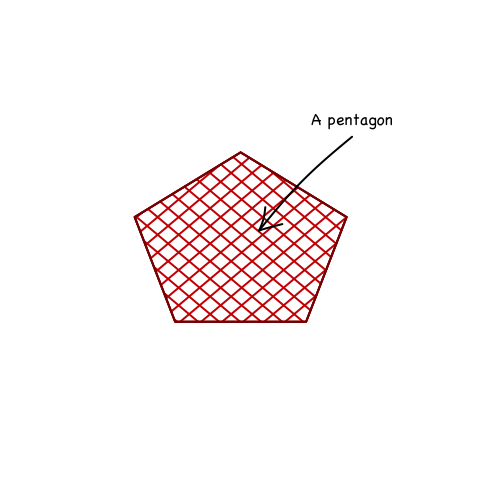
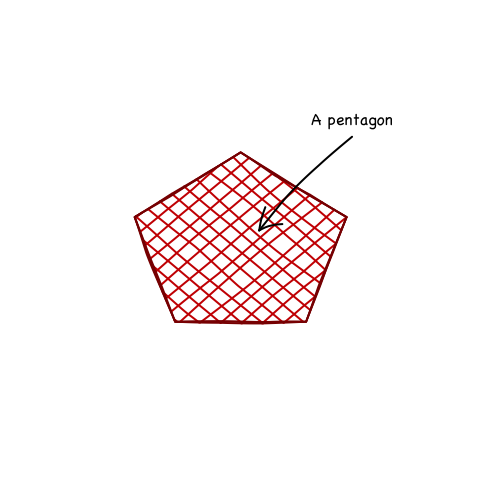
Fix README

Changed region(s): [[0.2812, 0.3438, 0.7188, 0.6875], [0.4688, 0.3125, 0.5, 0.3438]]

diff --git a/README.md b/README.md
@@ -67,10 +67,11 @@ plot(1:10, 1:10, type = "n", xlab = "", ylab = "", axes = FALSE)
 
 draw_rough_polygons(5 + 3 * sin(2*pi * 1:5/5), 5 + 3 * cos(2*pi * 1:5/5),
                     border = "darkred", col = "red3", lwd = 2,
-                    hand = hand(seed = 1, multi_stroke = 3),
+                    hand = human_hand(seed = 1, multi_stroke = 3),
                     fill_pattern = crosshatch())
 
-draw_rough_arrows(8, 8.5, 5.5, 5.5, lwd = 2, hand = hand(seed = 1, bow = 0.05))
+draw_rough_arrows(8, 8.5, 5.5, 5.5, lwd = 2, 
+                  hand = human_hand(seed = 1, bow = 0.05))
 text(8, 9, "A pentagon", family = "Chalkboard")
 ```
 
